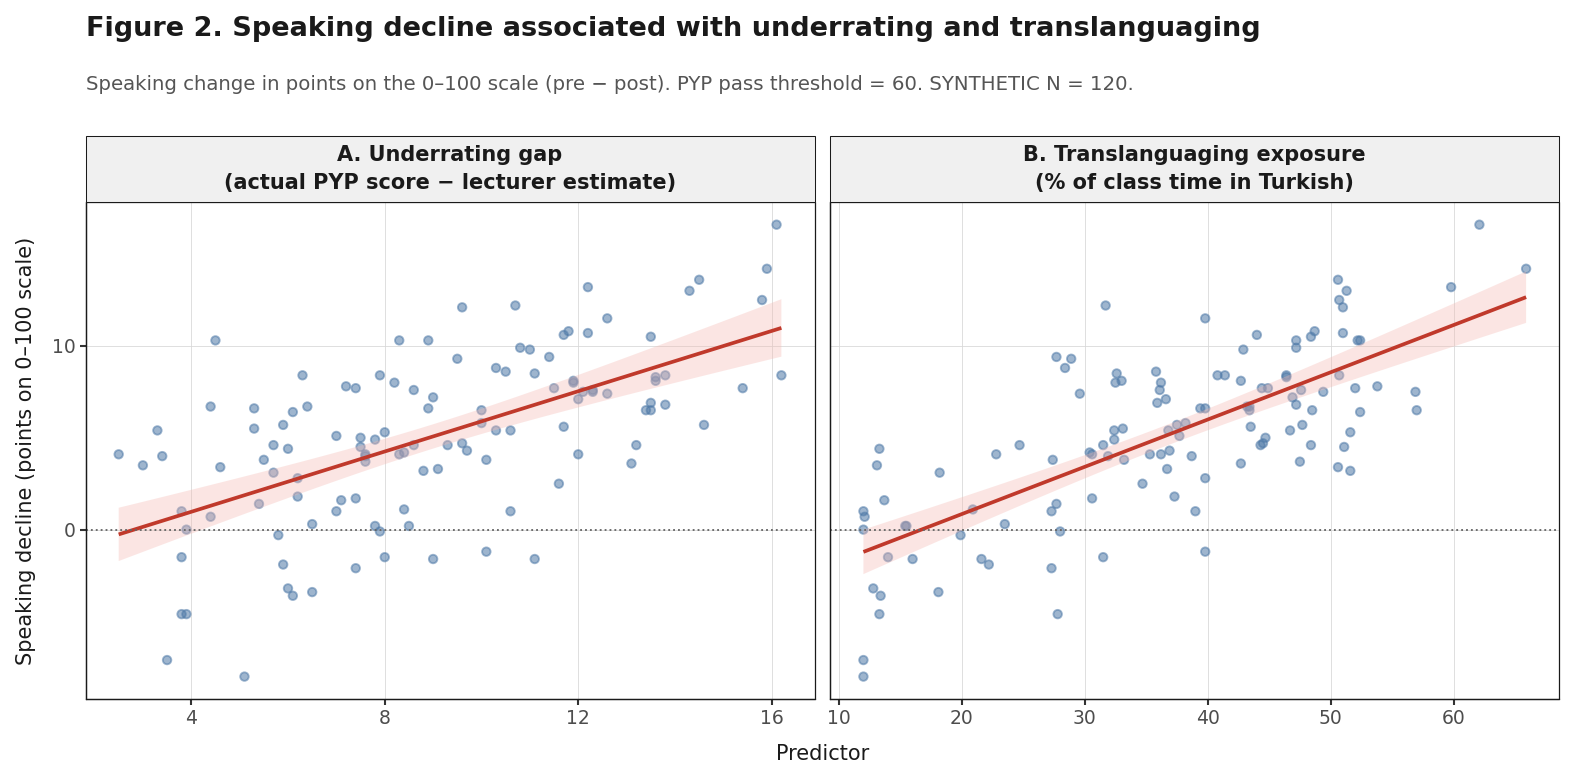
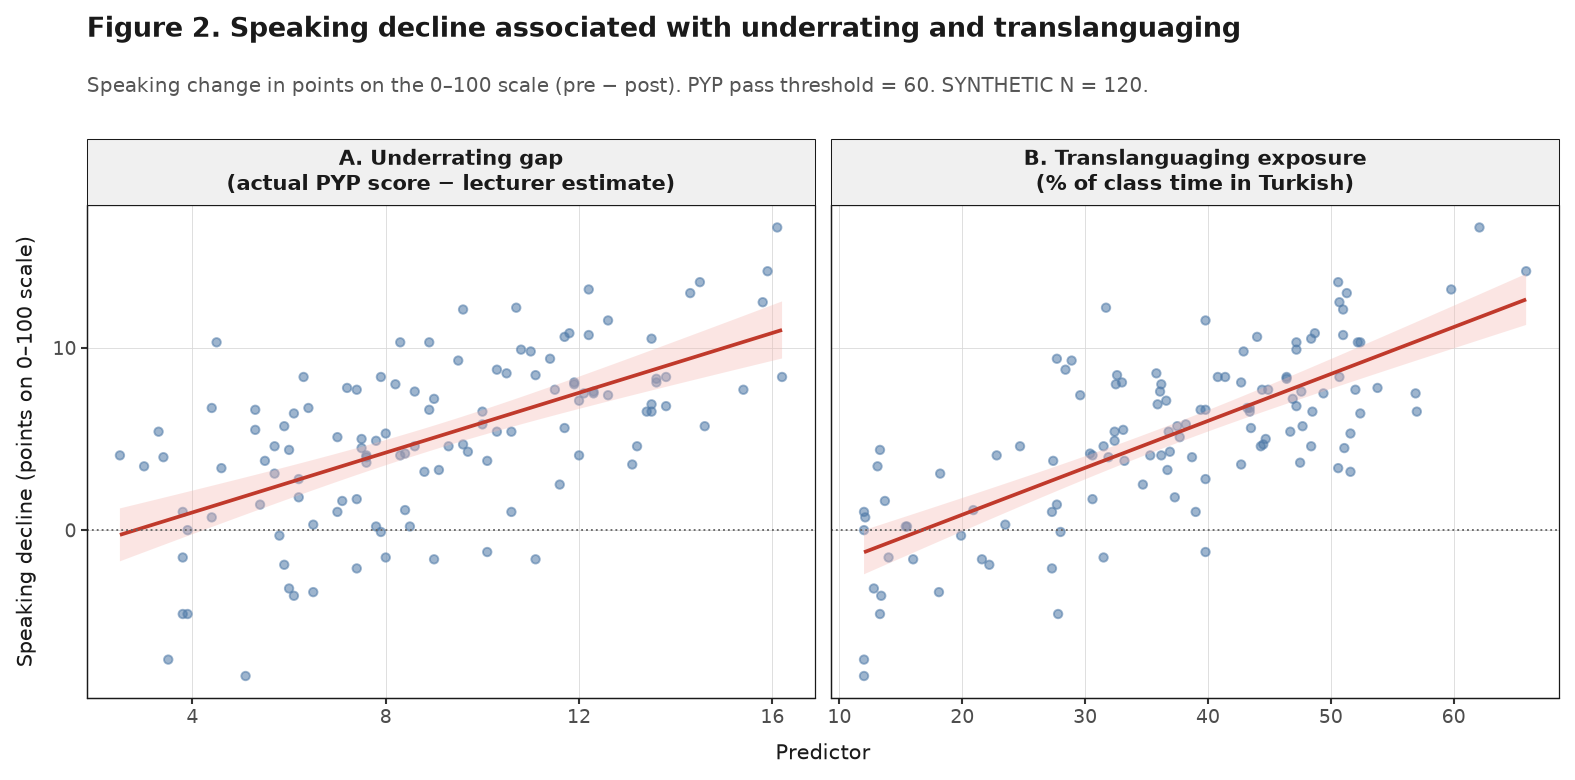
Keep Fig 2 as scatter; drop dumbbell from manuscript set
Publication figures are (1) grouped Pre/Post bars and (2) the original
two-panel scatter of Speaking decline × underrating / translanguaging.

diff --git a/emi-proficiency-study/make_styled_figures.py b/emi-proficiency-study/make_styled_figures.py
@@ -635,77 +635,10 @@ def make_fig1_skill_decline(s: pd.DataFrame, outdir: Path) -> Path:
     fig.savefig(path, dpi=160)
     plt.close(fig)
 
-    # --- Tableau-style dumbbell companion (same data, clearer Pre→Post slope) ---
+    # Tableau-ready CSV only (no dumbbell — manuscript Fig 2 remains the scatter).
     tab_dir = outdir.parent / "tableau"
     tab_dir.mkdir(parents=True, exist_ok=True)
     export_fig1_tableau_csv(s, tab_dir)
-
-    fig2, ax2 = plt.subplots(figsize=(8.8, 5.6), facecolor=T["bg"])
-    ax2.set_facecolor(T["card"])
-    for i, (_, row) in enumerate(df.iterrows()):
-        decline = row["Mean_decline"] > 0.05
-        line_c = T["red"] if decline else T["green"]
-        ax2.plot(
-            [row["Pre_Mean"], row["Post_Mean"]],
-            [i, i],
-            color=line_c,
-            lw=2.4,
-            zorder=2,
-            solid_capstyle="round",
-        )
-        ax2.scatter(row["Pre_Mean"], i, s=90, color=pre_color, edgecolors="#222222", linewidths=0.6, zorder=3, label="Pre" if i == 0 else None)
-        ax2.scatter(row["Post_Mean"], i, s=90, color=post_color, edgecolors="#222222", linewidths=0.6, zorder=3, label="Post" if i == 0 else None)
-        # arrow tip near Post for declines
-        if decline:
-            ax2.annotate(
-                "",
-                xy=(row["Post_Mean"], i),
-                xytext=(row["Pre_Mean"], i),
-                arrowprops={"arrowstyle": "->", "color": line_c, "lw": 1.8},
-                zorder=2,
-            )
-        delta = row["Mean_decline"]
-        tag = f"↓ {delta:.1f}" if delta > 0.05 else (f"↑ {abs(delta):.1f}" if delta < -0.05 else "≈ 0")
-        ax2.text(
-            max(row["Pre_Mean"], row["Post_Mean"]) + 0.45,
-            i,
-            f"{tag}  ({row['Sig']})",
-            va="center",
-            fontsize=8.5,
-            color=line_c,
-            fontweight="bold",
-        )
-    ax2.axvline(60, color="#888888", ls="--", lw=1.1, label="Threshold 60")
-    ax2.set_yticks(range(len(df)))
-    ax2.set_yticklabels(list(df["Skill"]))
-    ax2.set_xlabel("Mean score (0–100)")
-    ax2.set_xlim(56, 78)
-    ax2.set_title(
-        "Figure 1 (Tableau-style dumbbell). Pre → Post mean scores by skill",
-        loc="left",
-        fontsize=12,
-        fontweight="bold",
-        color=T["header"],
-    )
-    ax2.text(
-        0.0,
-        1.03,
-        "Left/right dots = Pre / Post. Red arrows = attrition (Listening, Speaking). "
-        "Green segments = slight non-significant gains (Reading, Writing).",
-        transform=ax2.transAxes,
-        fontsize=8.5,
-        color=T["muted"],
-        va="bottom",
-    )
-    ax2.grid(True, axis="x", color=T["grid"], linewidth=0.8)
-    ax2.set_axisbelow(True)
-    for spine in ax2.spines.values():
-        spine.set_color("#DDDDDD")
-    ax2.legend(frameon=True, fancybox=False, edgecolor="#222222", fontsize=8, loc="lower right")
-    dumbbell = tab_dir / "fig1_skill_prepost_dumbbell.png"
-    fig2.tight_layout()
-    fig2.savefig(dumbbell, dpi=160)
-    plt.close(fig2)
 
     return path
 
@@ -951,11 +884,12 @@ def main() -> None:
         "",
         "## Tableau / RStudio companions for Figure 1",
         "",
-        "- `outputs/tableau/fig1_skill_prepost_dumbbell.png` — Tableau-style dumbbell (Pre → Post).",
         "- `outputs/tableau/fig1_skill_prepost_tableau.csv` — long data for Tableau Public.",
         "- `outputs/tableau/fig1_skill_prepost_wide_tableau.csv` — wide summary for Tableau.",
-        "- `rstudio/fig1_skill_prepost.R` — ggplot2 script (run in RStudio).",
+        "- `rstudio/fig1_skill_prepost.R` — ggplot2 grouped Pre/Post bars (run in RStudio).",
         "- `outputs/rstudio/fig1_skill_prepost_ggplot.png` — R ggplot2 grouped-bar output.",
+        "",
+        "Publication Figure 2 remains the two-panel **scatter** (`fig2_golem_speaking_paths.png`).",
         "",
         "## Tables (not figured)",
         "",

diff --git a/emi-proficiency-study/FIGURES.md b/emi-proficiency-study/FIGURES.md
@@ -14,11 +14,12 @@ Institutional skill and overall scores are on a **0–100** scale. The Preparato
 
 ## Tableau / RStudio companions for Figure 1
 
-- `outputs/tableau/fig1_skill_prepost_dumbbell.png` — Tableau-style dumbbell (Pre → Post).
 - `outputs/tableau/fig1_skill_prepost_tableau.csv` — long data for Tableau Public.
 - `outputs/tableau/fig1_skill_prepost_wide_tableau.csv` — wide summary for Tableau.
-- `rstudio/fig1_skill_prepost.R` — ggplot2 script (run in RStudio).
+- `rstudio/fig1_skill_prepost.R` — ggplot2 grouped Pre/Post bars (run in RStudio).
 - `outputs/rstudio/fig1_skill_prepost_ggplot.png` — R ggplot2 grouped-bar output.
+
+Publication Figure 2 remains the two-panel **scatter** (`fig2_golem_speaking_paths.png`).
 
 ## Tables (not figured)
 

diff --git a/emi-proficiency-study/EMI_Methodology_and_Quantitative_Results.md b/emi-proficiency-study/EMI_Methodology_and_Quantitative_Results.md
@@ -199,6 +199,4 @@ Nicol, A. A. M., & Pexman, P. M. (2010b). Displaying your findings: A practical 
 
 ![Figure 1. Mean Pre vs Post scores by skill (grouped bars)](outputs/figures/fig1_skill_mean_decline.png)
 
-![Figure 1 Tableau-style dumbbell](outputs/tableau/fig1_skill_prepost_dumbbell.png)
-
-![Figure 2. Speaking decline against Underrating Gap and TL%](outputs/figures/fig2_golem_speaking_paths.png)
+![Figure 2. Speaking decline against Underrating Gap and TL% (scatter)](outputs/figures/fig2_golem_speaking_paths.png)
